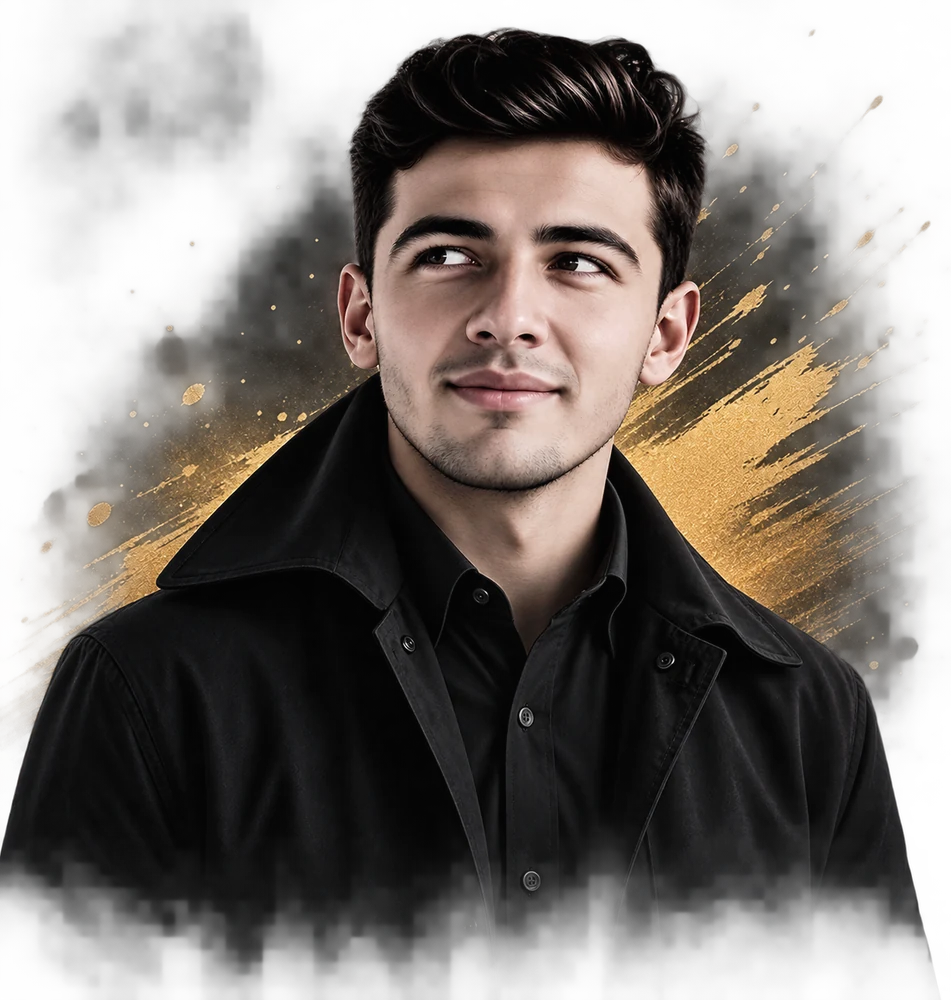
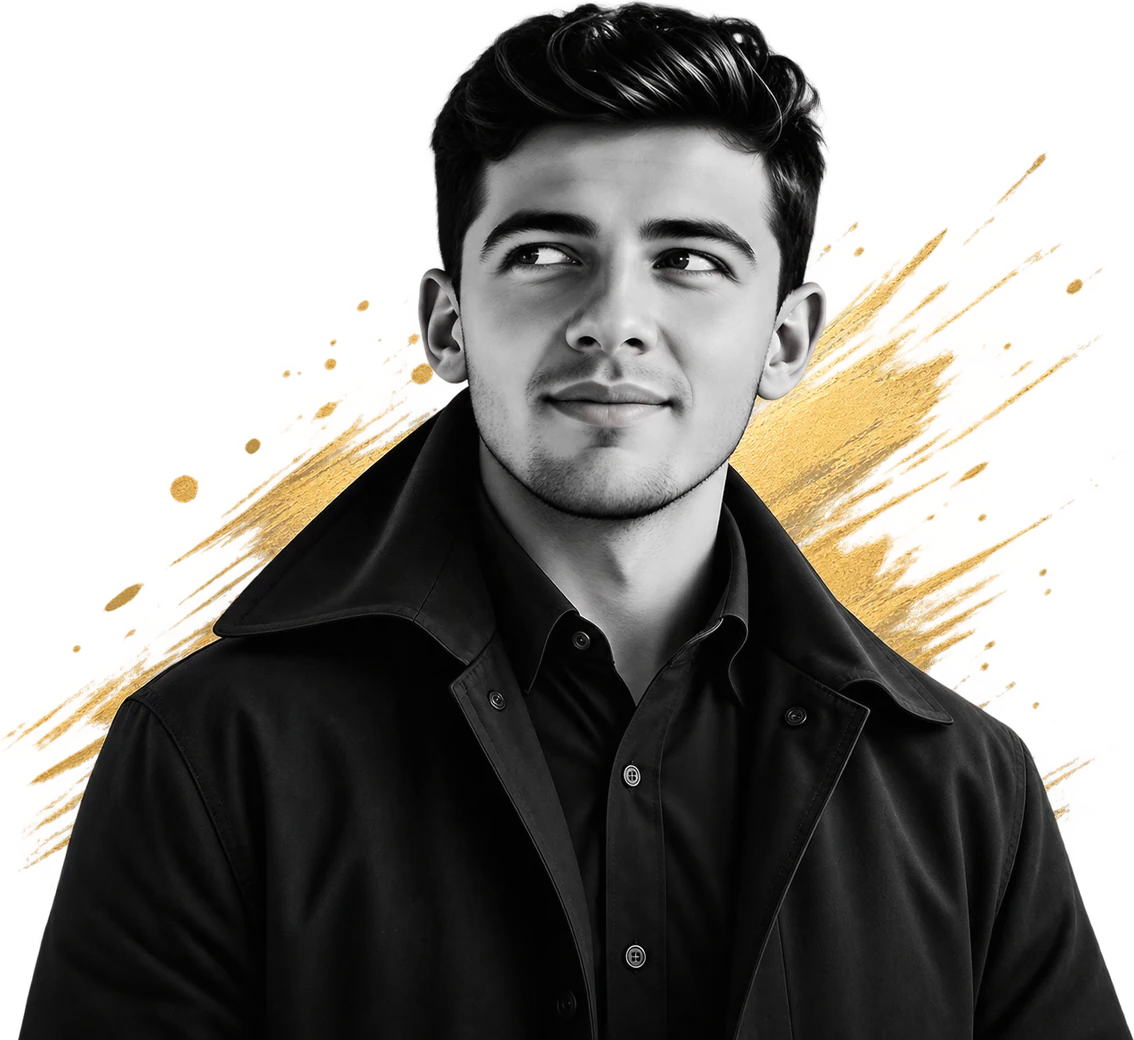
chore(umidjon): swap in the revised portrait
The new cut-out drops the grey smoke and keeps only the figure and the
gold sweep, and it is wider than the previous one (1.09 vs 0.95).

- trimmed of transparent margin, resized to 1040px tall, exported as
  WebP q88 at 256 KB with alpha intact; the 1.7 MB PNG is removed
- hero box widened to 34/38rem to hold the same figure height inside the
  33rem panel, and nudged left so the shoulder clears the code panel
- mobile slot follows the new aspect

diff --git a/apps/umidjon/src/components/sections/hero.tsx b/apps/umidjon/src/components/sections/hero.tsx
@@ -22,7 +22,7 @@ export function Hero() {
   return (
     <section className="relative isolate border-b border-border lg:h-[33rem]">
       <div
-        className="pointer-events-none absolute inset-y-0 left-[46%] hidden w-[40rem] -translate-x-1/2 lg:block xl:left-[47%]"
+        className="pointer-events-none absolute inset-y-0 left-[45%] hidden w-[42rem] -translate-x-1/2 lg:block xl:left-[46%]"
         aria-hidden
       >
         <HeroBackdrop />
@@ -30,7 +30,7 @@ export function Hero() {
 
       {profile.avatar ? (
         <div
-          className="pointer-events-none absolute bottom-0 left-[46%] hidden h-[96%] w-[30rem] -translate-x-1/2 lg:block xl:left-[47%] xl:w-[34rem]"
+          className="pointer-events-none absolute bottom-0 left-[45%] hidden h-[98%] w-[34rem] -translate-x-1/2 lg:block xl:left-[46%] xl:w-[38rem]"
           aria-hidden
         >
           <Image
@@ -38,7 +38,7 @@ export function Hero() {
             alt=""
             fill
             priority
-            sizes="34rem"
+            sizes="38rem"
             className="object-contain object-bottom"
           />
         </div>
@@ -86,7 +86,7 @@ export function Hero() {
         </div>
 
         {profile.avatar ? (
-          <div className="relative mx-auto aspect-[19/20] w-full max-w-sm lg:hidden">
+          <div className="relative mx-auto aspect-[109/100] w-full max-w-sm lg:hidden">
             <Image
               src={profile.avatar}
               alt={profile.fullName ?? profile.firstName}
